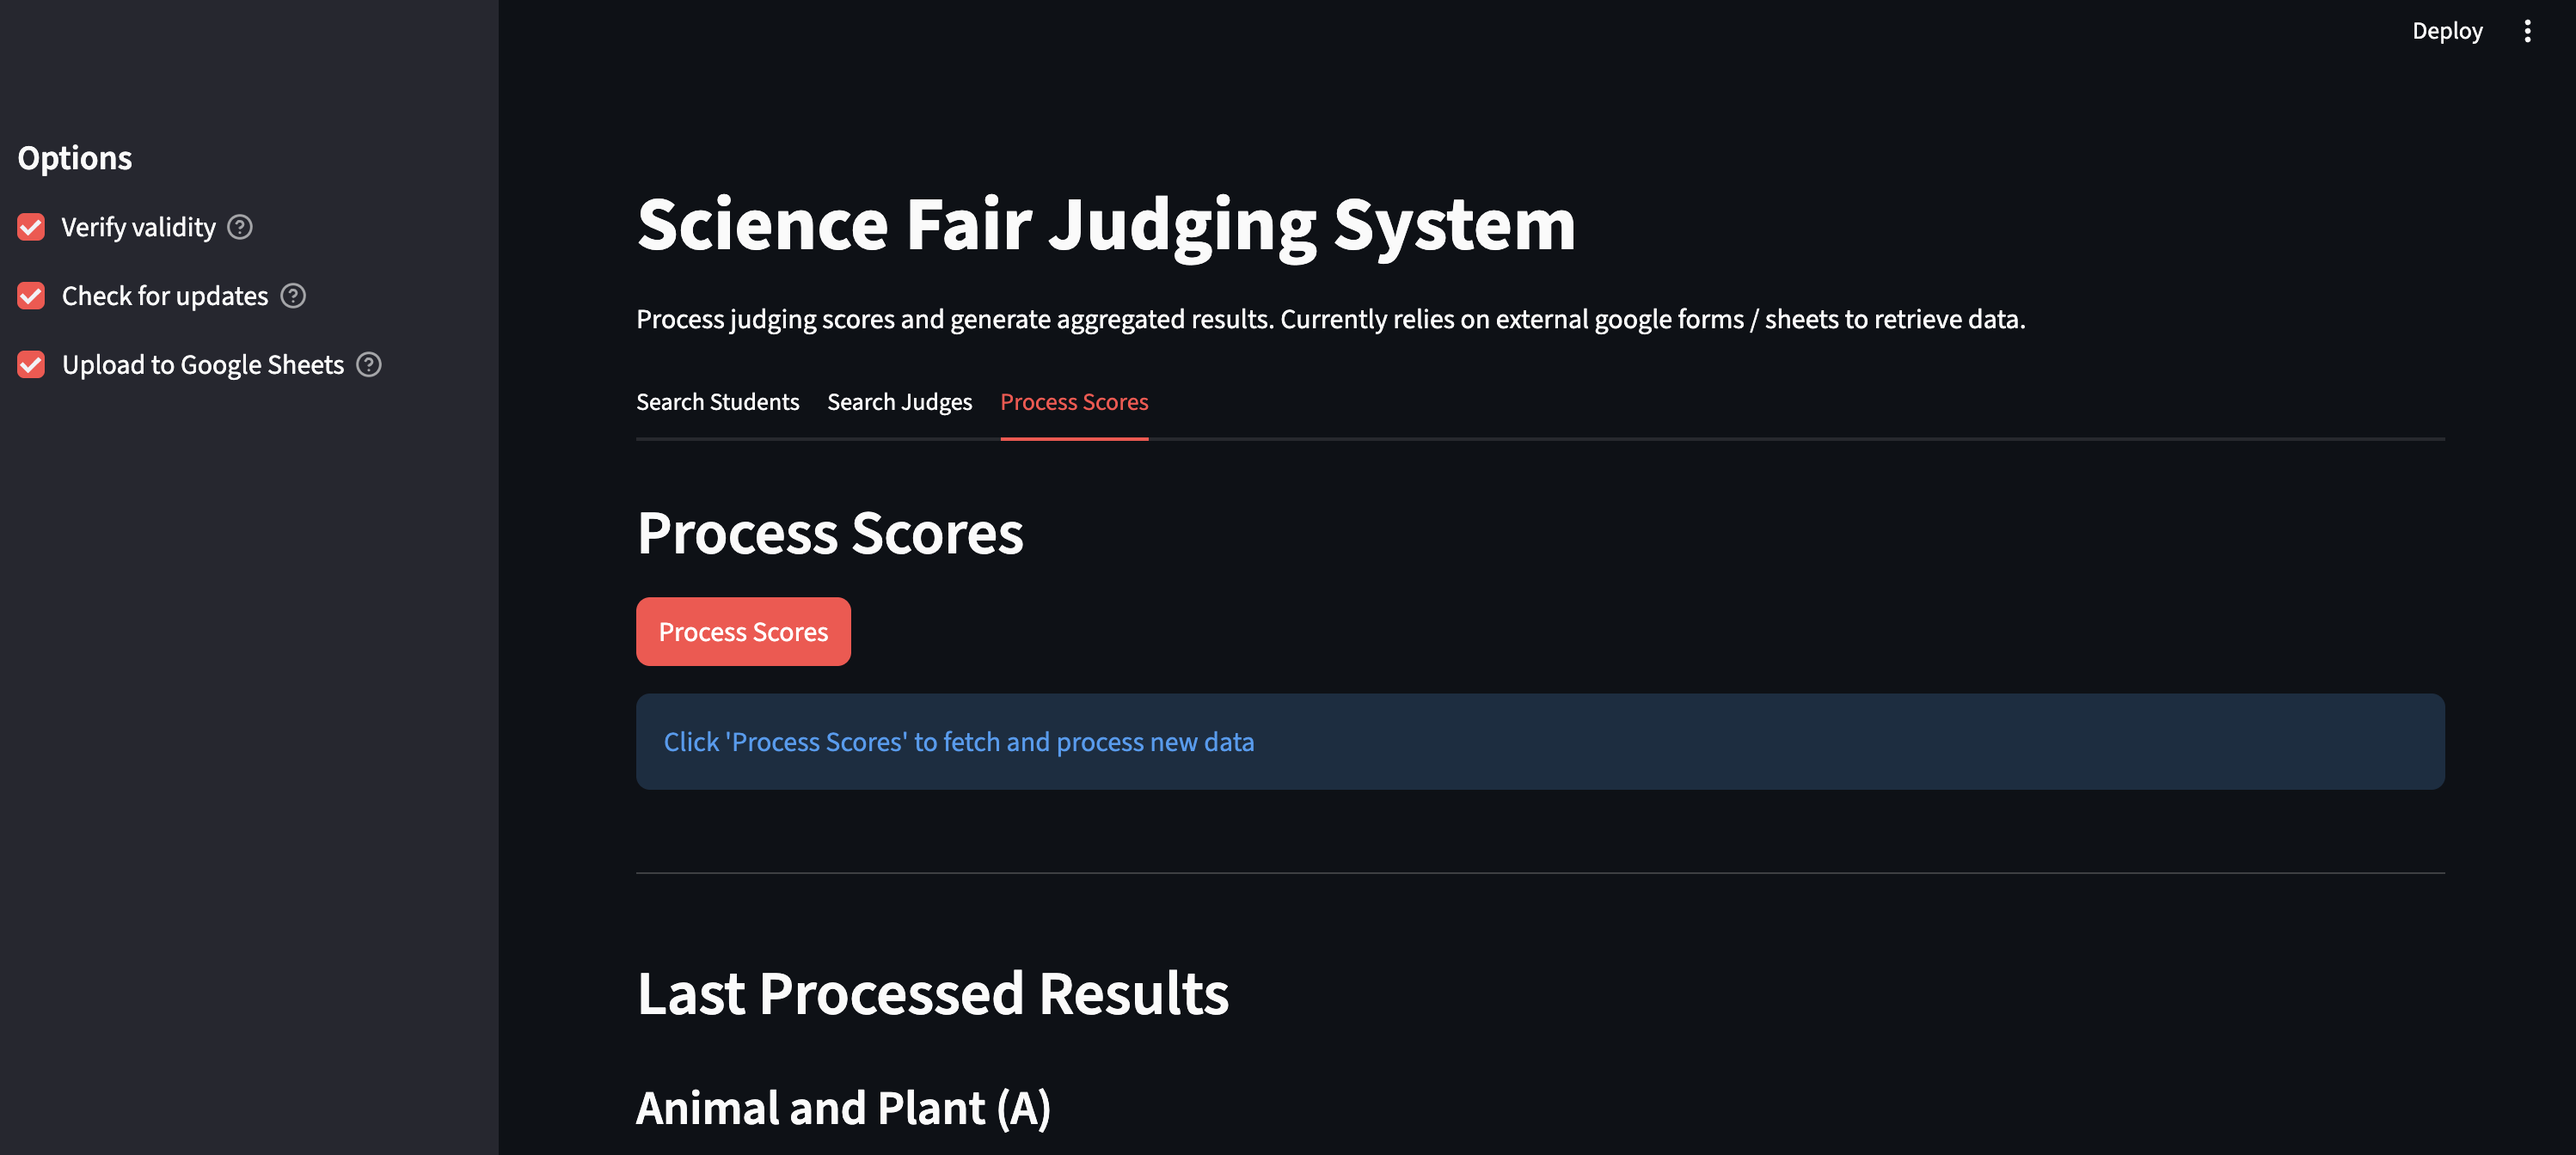
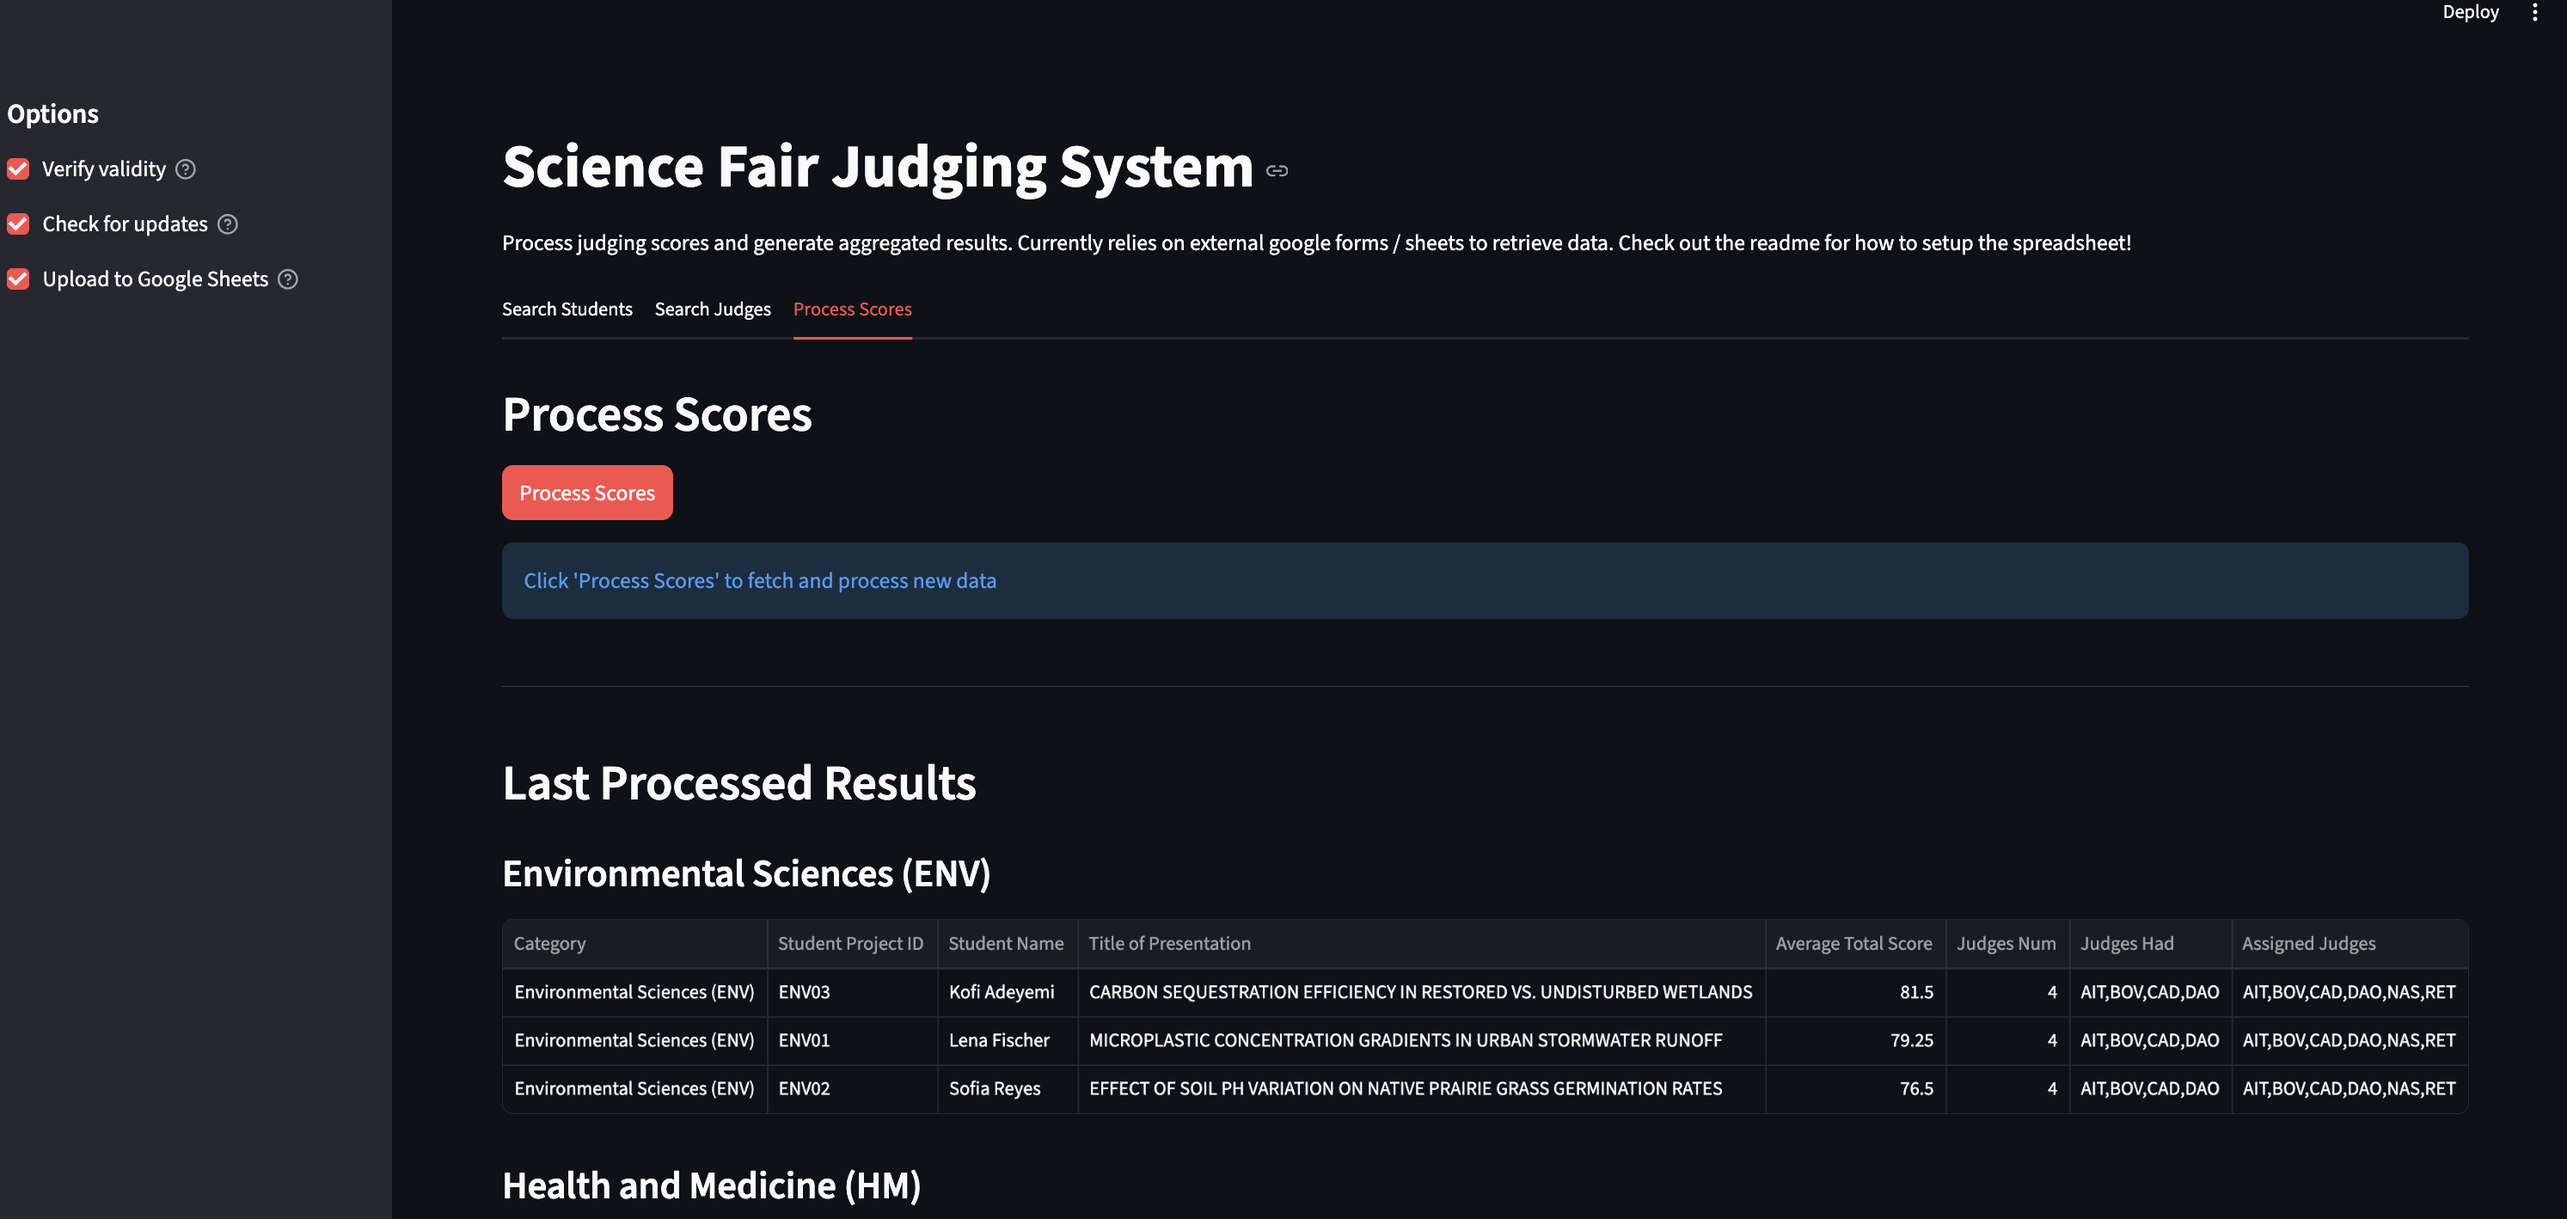
add dummy data for main and update desc

diff --git a/utils.py b/utils.py
@@ -22,24 +22,24 @@ SCORING_COLUMNS = [
 
 def generate_csv(data_dir, out_dir):
     scores = pd.read_csv(f"{data_dir}/raw_scores.csv")
-    ids_categories = pd.read_csv(f"{data_dir}/ids_categories.csv")
+    student_assignments = pd.read_csv(f"{data_dir}/student_assignments.csv")
 
-    # forward fill ids_categories to get category for each project id
-    mask = ids_categories['ID (project)'].notna()
-    ids_categories.loc[mask,
-                       'Category'] = ids_categories.loc[mask, 'Category'].ffill()
+    # forward fill student_assignments to get category for each project id
+    mask = student_assignments['ID (project)'].notna()
+    student_assignments.loc[mask,
+                       'Category'] = student_assignments.loc[mask, 'Category'].ffill()
 
-    ids_categories = ids_categories[ids_categories['ID (project)'].notna()].copy(
+    student_assignments = student_assignments[student_assignments['ID (project)'].notna()].copy(
     )
 
     # send to csv to inspect (debug)
-    # ids_categories.to_csv(f"{out_dir}/ids_categories_filled.csv", index=False)
+    # student_assignments.to_csv(f"{out_dir}/student_assignments_filled.csv", index=False)
 
     logger.info(f"Number of judging entries: {len(scores)}")
 
     # merge scores with category info so all student data in one df based on project id
     merged = scores.merge(
-        ids_categories[['ID (project)', 'Category',
+        student_assignments[['ID (project)', 'Category',
                         'Student First Name', 'Student Last Name', 'Title of Presentation']],
         left_on='Student Project ID',
         right_on='ID (project)',
@@ -91,10 +91,10 @@ def generate_csv(data_dir, out_dir):
         ascending=[True, False]
     )
 
-    # add Assigned Judges column based on ids_categories and ids_judges
+    # add Assigned Judges column based on student_assignments and ids_judges
     ids_judges_df = pd.read_csv(f"{data_dir}/ids_judges.csv")
     project_dict = get_necessary_judges(
-        ids_categories, ids_judges_df, final_df)
+        student_assignments, ids_judges_df, final_df)
     final_df['Assigned Judges'] = final_df['Student Project ID'].apply(
         lambda x: ','.join(project_dict[x]) if x in project_dict else '')
 
@@ -108,26 +108,26 @@ def generate_csv(data_dir, out_dir):
     return final_df
 
 
-def get_necessary_judges(ids_categories, ids_judges, output):
+def get_necessary_judges(student_assignments, ids_judges, output):
     project_dict = {}
     for index, row in output.iterrows():
         # get the row associated with the current project id
         project_id = row['Student Project ID']
 
-        ids_categories_row = ids_categories[ids_categories['ID (project)']
+        student_assignments_row = student_assignments[student_assignments['ID (project)']
                                             == project_id]
         judges = []
-        if len(ids_categories_row) != 1:
+        if len(student_assignments_row) != 1:
             logger.error(
-                f"Student Project ID {project_id} not found or duplicated in ids_categories.csv")
+                f"Student Project ID {project_id} not found or duplicated in student_assignments.csv")
             continue
 
         # print("current project id", project_id)
         for j in range(1, 7):
-            if pd.isna(ids_categories_row[f"Judge {j}"].values[0]):
+            if pd.isna(student_assignments_row[f"Judge {j}"].values[0]):
                 continue
             judges.append(
-                str(ids_categories_row[f"Judge {j}"].values[0]).upper())
+                str(student_assignments_row[f"Judge {j}"].values[0]).upper())
 
         project_dict[project_id] = []
         for judge in judges:
@@ -159,12 +159,12 @@ def verify_validity(final_scores, data_dir, out_dir):
     judge_ids_list = [str(x).strip().upper()
                       for x in ids_judges['JUDGE ID'].tolist()]
 
-    ids_categories = pd.read_csv(f"{data_dir}/ids_categories.csv")
+    student_assignments = pd.read_csv(f"{data_dir}/student_assignments.csv")
     id_list = [str(x).strip().upper()
-               for x in ids_categories['ID (project)'].tolist()]
+               for x in student_assignments['ID (project)'].tolist()]
 
     project_dict = get_necessary_judges(
-        ids_categories, ids_judges, final_scores)
+        student_assignments, ids_judges, final_scores)
 
     passed = True
 
@@ -207,15 +207,15 @@ def verify_validity(final_scores, data_dir, out_dir):
 
 def get_names(data_dir):
     placements = pd.read_csv(f"{data_dir}/placements.csv")
-    ids_categories = pd.read_csv(f"{data_dir}/ids_categories.csv")
+    student_assignments = pd.read_csv(f"{data_dir}/student_assignments.csv")
 
     placements = placements.drop(columns=['Student Name'])
     for index, current_row in placements.iterrows():
         project_id = current_row['Student Project ID']
-        id_row = ids_categories[ids_categories['ID (project)'] == project_id]
+        id_row = student_assignments[student_assignments['ID (project)'] == project_id]
         if len(id_row) == 0:
             logger.warning(
-                f"Project ID {project_id} not found in ids_categories")
+                f"Project ID {project_id} not found in student_assignments")
             continue
         fname, lname = id_row['Student First Name'].values[0], id_row['Student Last Name'].values[0]
         # print("fname", fname, "lname", lname)
@@ -230,7 +230,7 @@ def get_names(data_dir):
 
 if __name__ == "__main__":
     # sanity check, you can also run the processing logic from here without the UI
-    data_dir = "2025"
+    data_dir = "data"
     out_dir = "output"
     final_scores = generate_csv(data_dir, out_dir)
     validity_passed = verify_validity(final_scores, data_dir, out_dir)

diff --git a/st.py b/st.py
@@ -16,11 +16,11 @@ logging.basicConfig(
 )
 logger = logging.getLogger()
 
-st.set_page_config(page_title="science_fair Judging System",
+st.set_page_config(page_title="Science Fair Judging System",
                    page_icon="📊", layout="wide")
 
 # configure for your own use
-data_dir = "2025"
+data_dir = "data"
 out_dir = "output"
 
 st.title("Science Fair Judging System")
@@ -189,7 +189,7 @@ verify_validity_flag = st.sidebar.checkbox(
 check_updates = st.sidebar.checkbox(
     "Check for updates", value=True, help="Only process if spreadsheet has changed")
 upload_to_sheets = st.sidebar.checkbox(
-    "Upload to Google Sheets", value=True, help="Upload processed results to Google Sheets")
+    "Upload to Google Sheets", value=False, help="Upload processed results to Google Sheets")
 
 with tab3:
     if st.button("Process Scores", type="primary"):

diff --git a/verify_done.py b/verify_done.py
@@ -1,10 +1,10 @@
 import pandas as pd
 
-data_dir = "2025"
+data_dir = "data"
 output_dir = "output"
-ids_categories = pd.read_csv(f"{data_dir}/ids_categories.csv")
+student_assignments = pd.read_csv(f"{data_dir}/student_assignments.csv")
 id_list = [str(x).strip().upper()
-           for x in ids_categories['ID (project)'].tolist()]
+           for x in student_assignments['ID (project)'].tolist()]
 
 final_scores = pd.read_csv(f"{output_dir}/output.csv")
 final_scores_list = [str(x).strip().upper()

diff --git a/README.md b/README.md
@@ -11,8 +11,9 @@ This is built on software developed for the 2025 New Jersey Academy of Science (
 uv sync
 ```
 
-3. Set up Google Sheets API:
-   - Create a service account and download the credentials JSON file
+3. Set up google form and google sheets (*if not working with dummy data):
+   - Create a google form. I set up a simple google form with the "multiple choice grid" option titled "Presentation Content" (rename if needed, just adjust the filtering code). Enable exporting to google sheets, then open that sheet
+   - Create a service account and download the credentials JSON file. [This](https://ai2.appinventor.mit.edu/reference/other/googlesheets-api-setup.html) tutorial may be helpful.
    - Share your Google Spreadsheet with the service account email
    - Create a `.env` file in the project root:
    ```
@@ -21,9 +22,9 @@ uv sync
 
 ## Data Format
 
-All input files should be placed in the `2025` directory. Fair organizers should stick to the following formats for the program to work correctly. The program performs various checks to ensure data integrity but the **data must be in the correct format.** I recommend doing some dry runs with dummy data to verify the program is working and understand how to operate it.
+Dummy data is provided in the `dummy_data` directory for testing. Create a directory `data` and copy the dummy data files into it, then delete it if you have your own data. Explanations of the relevant files are below. The program performs various checks to ensure data integrity but the **data must be in the correct format.** 
 
-### `ids_categories.csv`
+### `student_assignments.csv`
 
 Maps student projects to categories and assigned judges.
 
@@ -54,7 +55,7 @@ List of all judges with unique identifiers. These IDs must be consistent through
 
 ### `raw_scores.csv`
 
-This is acquired via the spreadsheet connected to the google form. I set up a simple google form with the "multiple choice grid" option titled "presentation content" (although this could be named whatever you want, just adjust the filtering code). The resulting spreadsheet should look like this. 
+If you're working with the dummy data, this is already available under `dummy_data/raw_scores`. Otherwise, this is acquired via the spreadsheet connected to the google form. 
 
 | Timestamp | Email Address | Judge ID | Student Project ID | Presentation Content [Background] | Presentation Content [Originality] | Presentation Content [Methodology] | ... | Other Comments | Student Name |
 |-----------|---------------|----------|-------------------|----------------------------------|---------------------------------------------------------------|-----------------------------------------------------------------------------|-----|----------------|--------------|
@@ -64,8 +65,8 @@ This is acquired via the spreadsheet connected to the google form. I set up a si
 
 **Key Points:**
 - The "..." represents additional scoring columns from the judging rubric
-- `Timestamp` and `Email Address` are ignored
-- `Student Project ID` are enforced to match IDs in `ids_categories.csv`
+- Other columns such as `Timestamp` and `Email Address` are ignored
+- `Student Project ID` are enforced to match IDs in `student_assignments.csv`
 - `Judge ID` are enforced to match IDs in `ids_judges.csv` and will throw warnings otherwise
 
 ### `output.csv`
